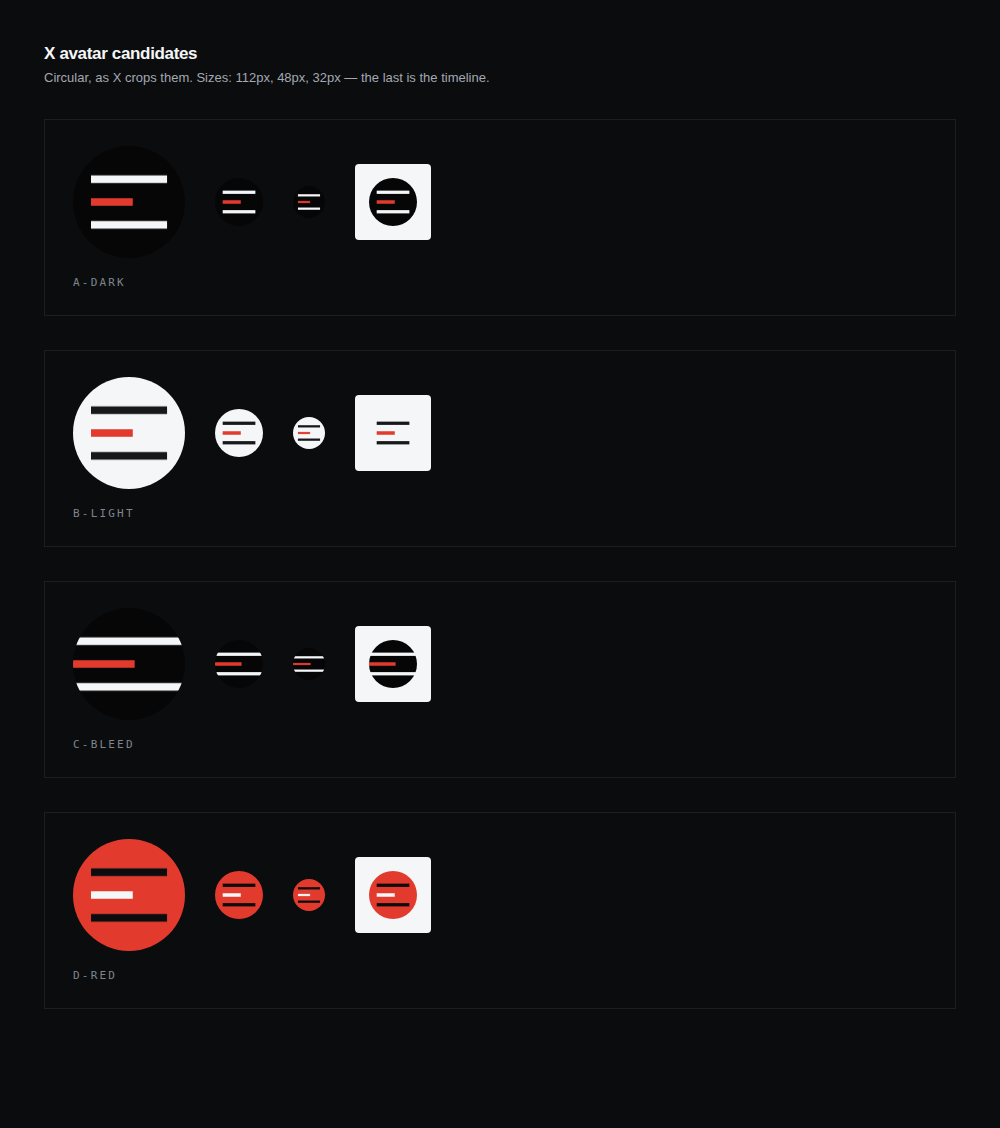
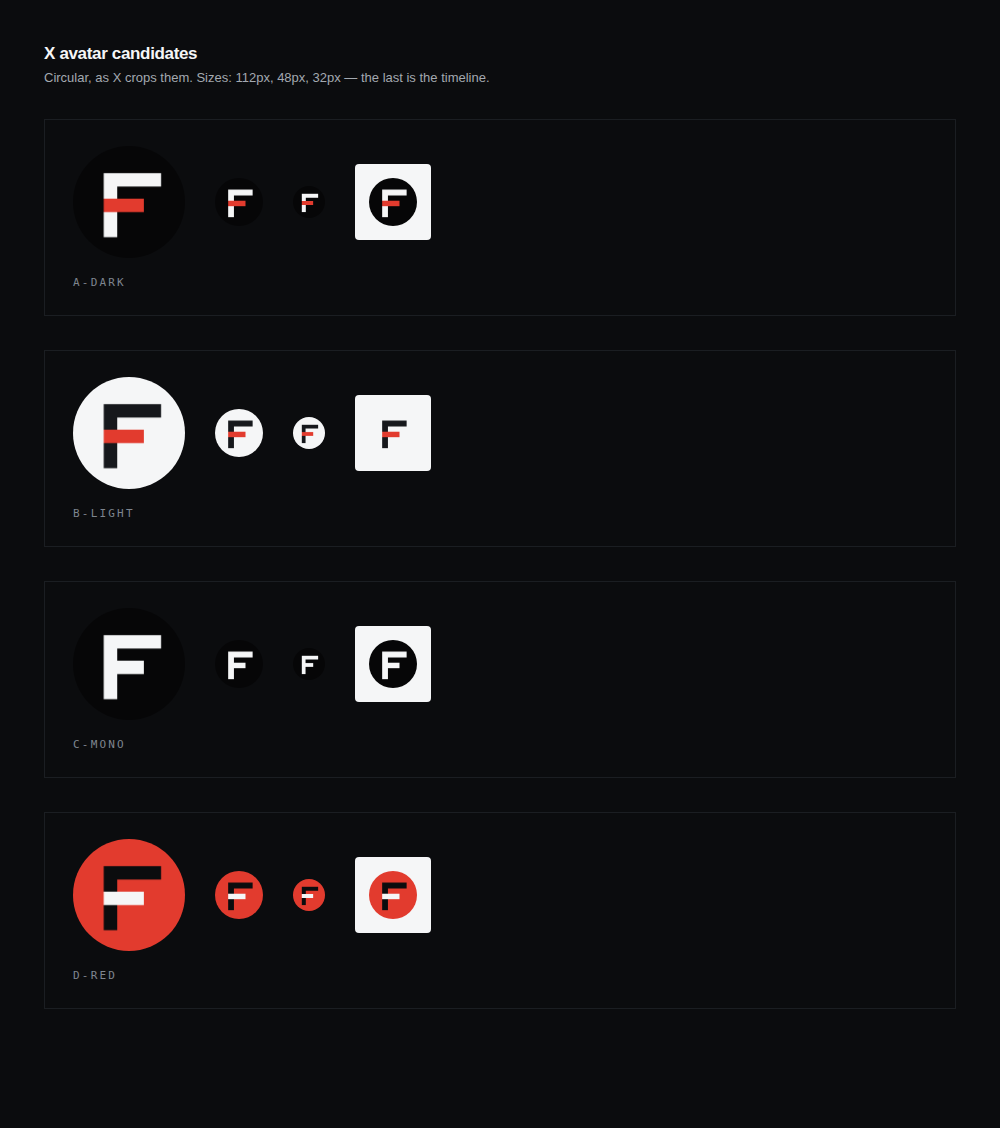
Give the mark a stem
Three stacked bars inside a circle read as a hamburger menu. That is a fatal
ambiguity for a profile picture, and it is what the Ledger mark did at the
one size where a mark is mostly seen: 32 pixels, in a timeline. It also sat
in a band across the middle of the crop and left the top and bottom empty,
so it looked timid everywhere.

Adding the stem fixes both without abandoning the idea. A capital F is three
horizontal strokes and a spine, so the rows survive intact — the middle one
still short, still red, still the row that is yours — while the spine makes
the menu reading impossible and lets the glyph fill the field.

The geometry is settled against the circular crop rather than scaled from
the 24-unit grid, because a square is not what X shows. Stroke 120 renders
3.8px at a 32px avatar, which survives; the middle arm is 0.7 of the top,
past which the F drifts into an E. The glyph sits 30 right and 28 below the
bounding-box centre, which is an optical correction rather than a taste: an
F's mass sits top-left with an empty bottom-right quadrant, and its computed
centre of mass is (424, 426) against a circle centre of (500, 500). A third
of that gap is enough to stop it leaning without pushing an arm into the
crop. The furthest point lands at 385 of the 500 radius.

Seven other directions were drawn and rejected against the same 32px test.
The overlap read as a medical cross; the strike as a prohibition sign; the
[…]

diff --git a/docs/design/fillmark-landing.html b/docs/design/fillmark-landing.html
@@ -295,7 +295,7 @@ footer a:hover{color:var(--wh)}
 
 <nav class="nav">
   <div class="nav-in">
-    <div class="logo"><!--LOGO--><svg class="mark" viewBox="0 0 24 24" aria-hidden="true" shape-rendering="crispEdges"><rect x="2" y="5" width="20" height="2" fill="#7E858E"/> <rect x="2" y="11" width="11" height="2" fill="#E23B2E"/> <rect x="2" y="17" width="20" height="2" fill="#7E858E"/></svg><!--/LOGO-->FILL<i>MARK</i></div>
+    <div class="logo"><!--LOGO--><svg class="mark" viewBox="0 0 24 24" aria-hidden="true" shape-rendering="crispEdges"><rect x="6.5" y="5.5" width="3" height="14" fill="#7E858E"/> <rect x="6.5" y="5.5" width="12" height="3" fill="#7E858E"/> <rect x="6.5" y="11" width="8.5" height="3" fill="#E23B2E"/></svg><!--/LOGO-->FILL<i>MARK</i></div>
     <div class="nav-l">
       <button id="mbtn" aria-expanded="false" aria-controls="mega">Features<span class="car">▼</span></button>
       <a href="/extractors/" class="desk">Index</a>

diff --git a/docs/design/fillmark-app.html b/docs/design/fillmark-app.html
@@ -333,7 +333,7 @@ footer{margin-top:88px;padding:26px 0 76px;border-top:1px solid var(--line);
 <body>
 
 <div class="top"><div class="top-in">
-  <a class="logo" href="/"><!--LOGO--><svg class="mark" viewBox="0 0 24 24" aria-hidden="true" shape-rendering="crispEdges"><rect x="2" y="5" width="20" height="2" fill="#7E858E"/> <rect x="2" y="11" width="11" height="2" fill="#E23B2E"/> <rect x="2" y="17" width="20" height="2" fill="#7E858E"/></svg><!--/LOGO-->FILL<i>MARK</i></a>
+  <a class="logo" href="/"><!--LOGO--><svg class="mark" viewBox="0 0 24 24" aria-hidden="true" shape-rendering="crispEdges"><rect x="6.5" y="5.5" width="3" height="14" fill="#7E858E"/> <rect x="6.5" y="5.5" width="12" height="3" fill="#7E858E"/> <rect x="6.5" y="11" width="8.5" height="3" fill="#E23B2E"/></svg><!--/LOGO-->FILL<i>MARK</i></a>
   <div class="top-l">
     <a href="/extractors/">Index</a>
     <a href="/lead-time/">Lead-time</a>

diff --git a/docs/design/fillmark-index.html b/docs/design/fillmark-index.html
@@ -230,7 +230,7 @@ footer a:hover{color:var(--wh)}
 
 <nav class="nav">
   <div class="nav-in">
-    <a class="logo" href="/"><!--LOGO--><svg class="mark" viewBox="0 0 24 24" aria-hidden="true" shape-rendering="crispEdges"><rect x="2" y="5" width="20" height="2" fill="#7E858E"/> <rect x="2" y="11" width="11" height="2" fill="#E23B2E"/> <rect x="2" y="17" width="20" height="2" fill="#7E858E"/></svg><!--/LOGO-->FILL<i>MARK</i></a>
+    <a class="logo" href="/"><!--LOGO--><svg class="mark" viewBox="0 0 24 24" aria-hidden="true" shape-rendering="crispEdges"><rect x="6.5" y="5.5" width="3" height="14" fill="#7E858E"/> <rect x="6.5" y="5.5" width="12" height="3" fill="#7E858E"/> <rect x="6.5" y="11" width="8.5" height="3" fill="#E23B2E"/></svg><!--/LOGO-->FILL<i>MARK</i></a>
     <div class="nav-l">
       <a href="/extractors/" aria-current="page">Index</a>
       <a href="/lead-time/">Lead-time</a>

diff --git a/docs/design/fillmark-leadtime.html b/docs/design/fillmark-leadtime.html
@@ -211,7 +211,7 @@ footer a:hover{color:var(--wh)}
 
 <nav class="nav">
   <div class="nav-in">
-    <a class="logo" href="/"><!--LOGO--><svg class="mark" viewBox="0 0 24 24" aria-hidden="true" shape-rendering="crispEdges"><rect x="2" y="5" width="20" height="2" fill="#7E858E"/> <rect x="2" y="11" width="11" height="2" fill="#E23B2E"/> <rect x="2" y="17" width="20" height="2" fill="#7E858E"/></svg><!--/LOGO-->FILL<i>MARK</i></a>
+    <a class="logo" href="/"><!--LOGO--><svg class="mark" viewBox="0 0 24 24" aria-hidden="true" shape-rendering="crispEdges"><rect x="6.5" y="5.5" width="3" height="14" fill="#7E858E"/> <rect x="6.5" y="5.5" width="12" height="3" fill="#7E858E"/> <rect x="6.5" y="11" width="8.5" height="3" fill="#E23B2E"/></svg><!--/LOGO-->FILL<i>MARK</i></a>
     <div class="nav-l">
       <a href="/extractors/">Index</a>
       <a href="/lead-time/" aria-current="page">Lead-time</a>

diff --git a/docs/design/404.html b/docs/design/404.html
@@ -74,7 +74,7 @@ footer a:hover{color:var(--wh)}
 <div class="rule" aria-hidden="true"><div><i></i><i></i><i></i><i></i><i></i><i></i></div></div>
 
 <nav class="nav"><div class="nav-in">
-  <a class="logo" href="/"><!--LOGO--><svg class="mark" viewBox="0 0 24 24" aria-hidden="true" shape-rendering="crispEdges"><rect x="2" y="5" width="20" height="2" fill="#7E858E"/> <rect x="2" y="11" width="11" height="2" fill="#E23B2E"/> <rect x="2" y="17" width="20" height="2" fill="#7E858E"/></svg><!--/LOGO-->FILL<i>MARK</i></a>
+  <a class="logo" href="/"><!--LOGO--><svg class="mark" viewBox="0 0 24 24" aria-hidden="true" shape-rendering="crispEdges"><rect x="6.5" y="5.5" width="3" height="14" fill="#7E858E"/> <rect x="6.5" y="5.5" width="12" height="3" fill="#7E858E"/> <rect x="6.5" y="11" width="8.5" height="3" fill="#E23B2E"/></svg><!--/LOGO-->FILL<i>MARK</i></a>
 </div></nav>
 
 <main><div class="w">
